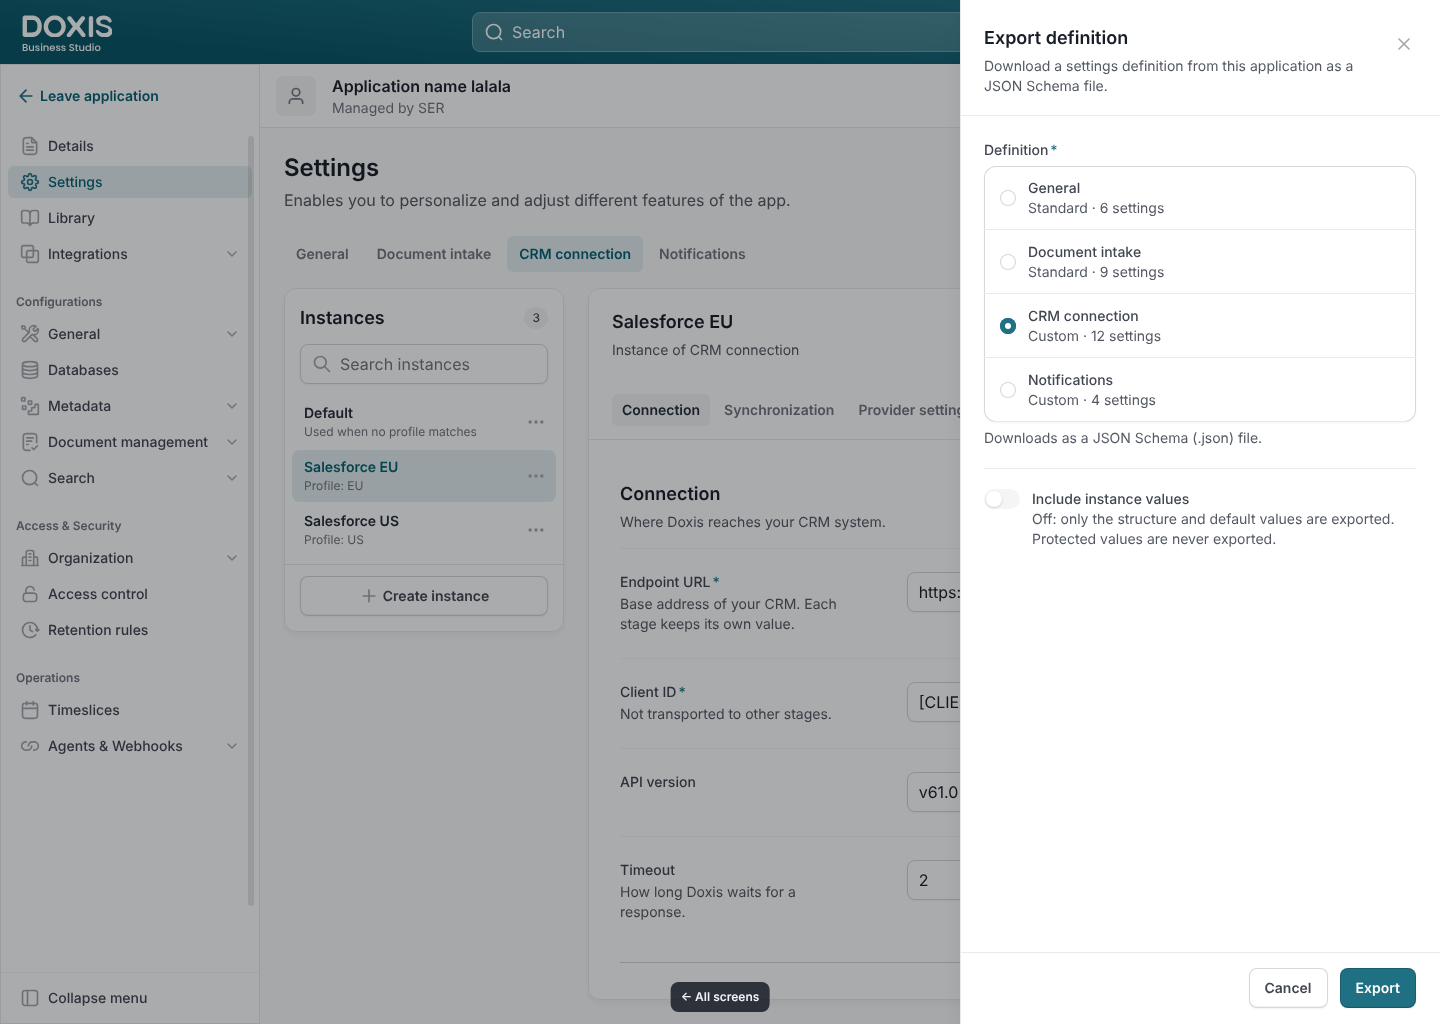
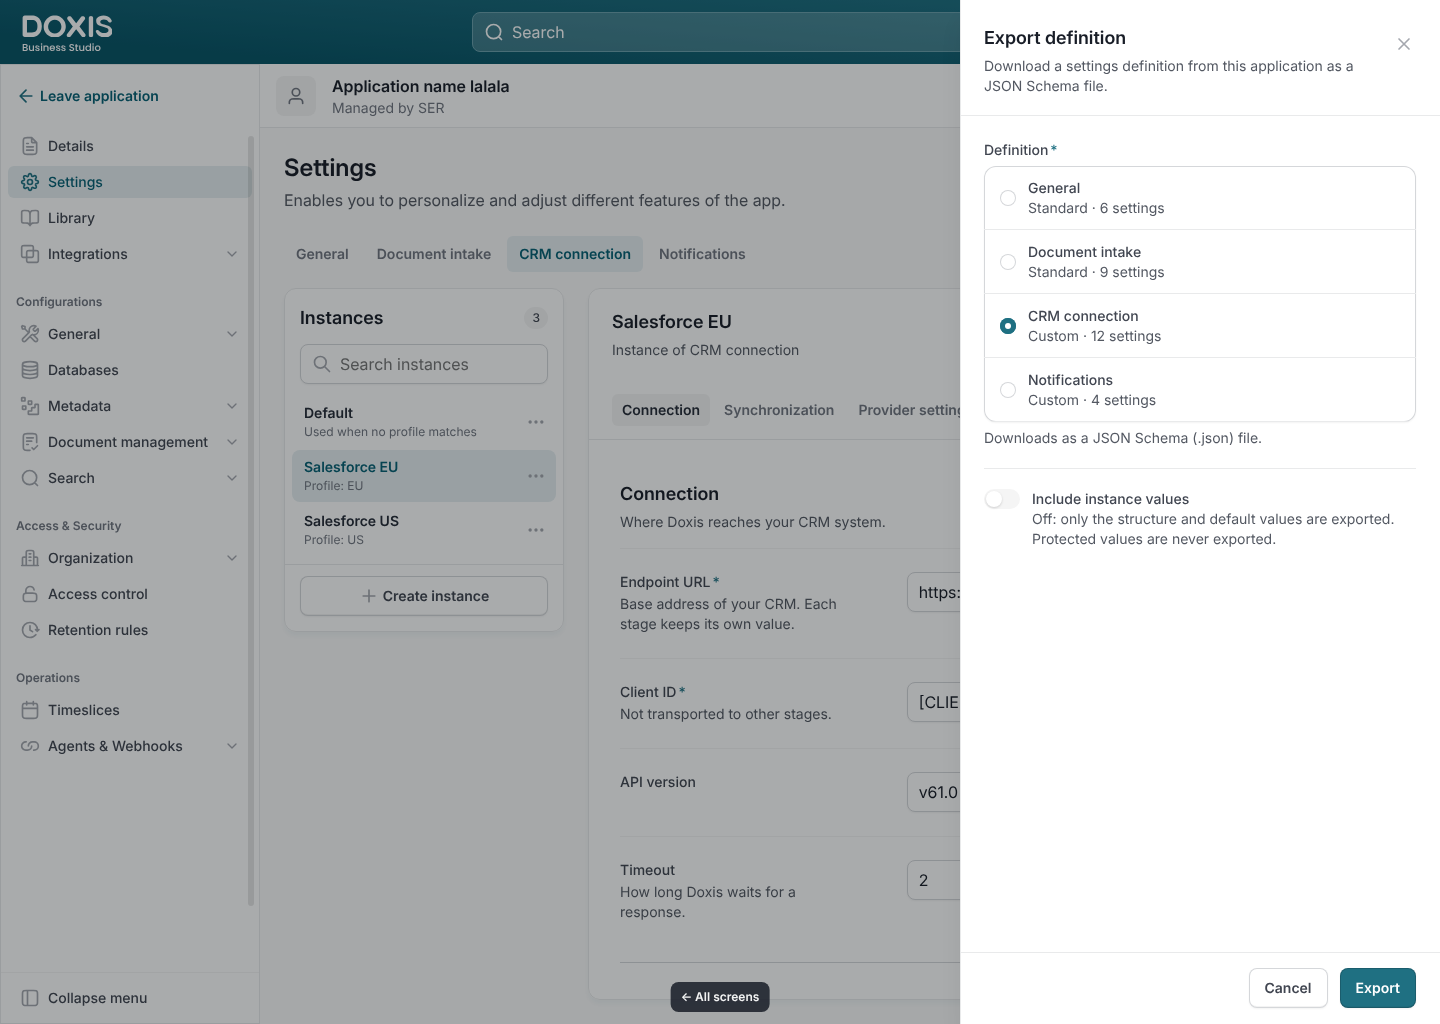
Add files via upload

diff --git a/prototype.js b/prototype.js
@@ -355,20 +355,12 @@
   });
 
   // ---------- real file picker + drag and drop for the import panel ----------
-  var picker = null;
+    // Prototype: no system file picker. Pretend the user picked the sample schema file.
   function pickFile() {
-    if (!picker) {
-      picker = document.createElement('input');
-      picker.type = 'file';
-      picker.accept = '.json,application/json';
-      picker.style.display = 'none';
-      picker.addEventListener('change', function () {
-        if (picker.files && picker.files[0]) useFile(picker.files[0]);
-        picker.value = '';
-      });
-      document.body.appendChild(picker);
-    }
-    picker.click();
+    var n = document.body.getAttribute('data-screen') === 'update' ? 14 : 12;
+    var props = {};
+    for (var i = 1; i <= n; i++) props['setting' + i] = { type: 'string' };
+    useFile(new File([JSON.stringify({ type: 'object', properties: props })], 'crm-connection.schema.json', { type: 'application/json' }));
   }
   var upTimer = null;
   function useFile(f) {
